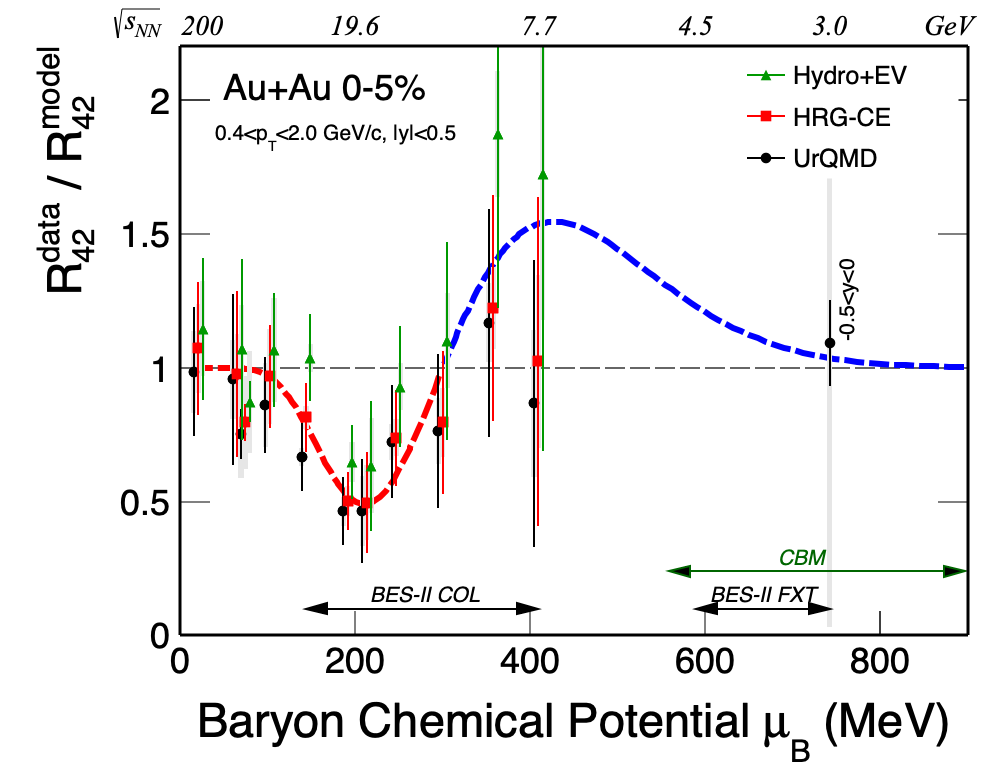
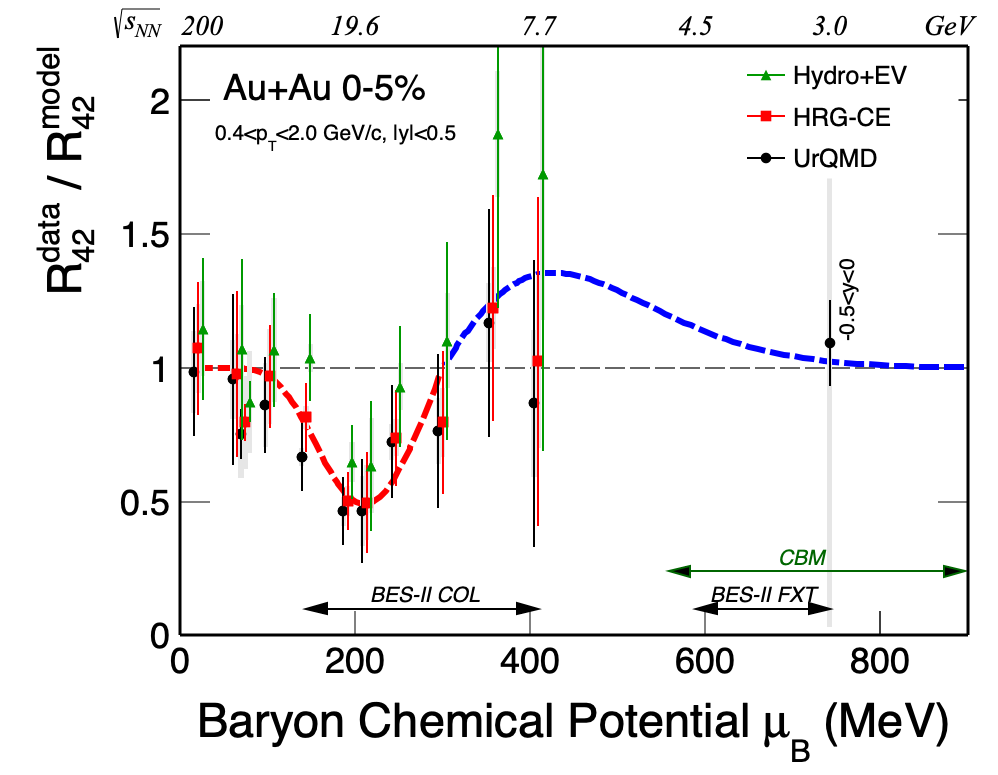
above unity blue curve arbitrarily scaled down by 0.65

Changed region(s): [[0.4349, 0.2787, 0.8387, 0.4645], [0.8387, 0.4645, 0.9008, 0.4955]]

diff --git a/NetProtonMoments/plotRatioOneMuB.C b/NetProtonMoments/plotRatioOneMuB.C
@@ -253,7 +253,7 @@ void plotRatioOneMuB(const int conf = 1)  // conf:  1 - combine model uncertaint
   for(int i=0;i<np;i++) {
     ener_p[i] = (11.5 - 2.0)/np*(i+0.1) + 2.0;
     muB_p[i] = fun_muB->Eval(ener_p[i]);
-    y_p[i] = fun_p->Eval(ener_p[i]);
+    y_p[i] = (fun_p->Eval(ener_p[i]) - 1 ) * 0.65 + 1.;
     
     ener_n[i] = (200 - 11.5)/np*(i+0.1) + 11.5;
     muB_n[i] = fun_muB->Eval(ener_n[i]);
